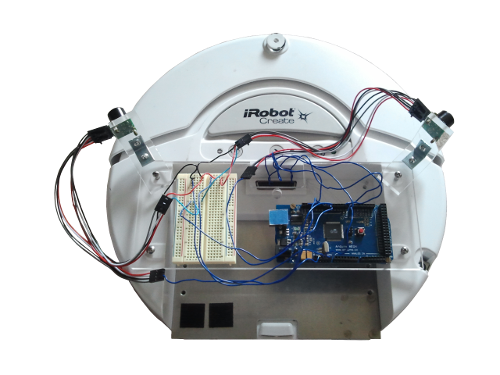
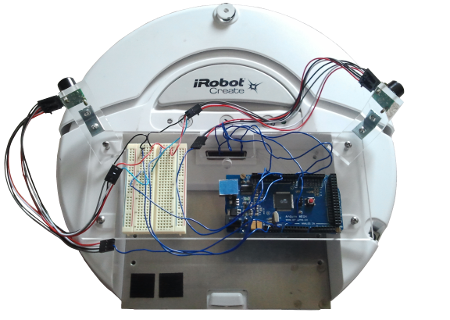
Cropped borderless robot image so it centers
Also removed image map since the dimensions of the image have changed

diff --git a/index.html b/index.html
@@ -76,20 +76,7 @@
                 <div class="col-sm-6">
                     <img id="featured-image" class="center-block img-responsive"
                     src="img/robot-borderless.png" alt="Semi-Autonomous Robot"
-                    width="500" height="375" usemap="#map">
-                    <map name="map">
-                            <!-- #$-:Image map file created by GIMP Image Map plug-in -->
-                            <!-- #$-:GIMP Image Map plug-in by Maurits Rijk           -->
-                            <!-- #$-:Please do not edit lines starting with "#$"      -->
-                            <!-- #$VERSION:2.3                                        -->
-                            <!-- #$AUTHOR:Unknown                                     -->
-                            <area shape="poly" coords="169,340,383,341,383,332,
-                            415,303,441,255,449,214,447,175,446,150,458,130,455,
-                            114,443,107,436,109,415,93,371,60,332,41,292,31,244,
-                            34,193,51,154,79,128,109,122,102,104,113,111,140,105,
-                            162,107,167,103,206,109,246,133,295,168,332,169,340"
-                            alt="Semi-Autonomous Robot" href="work.html">
-                    </map>
+                    width="450" height="320">
                     <!--[if IE 9]><!-->
                             <div id="circle"></div>
                     <!--<![endif]-->
